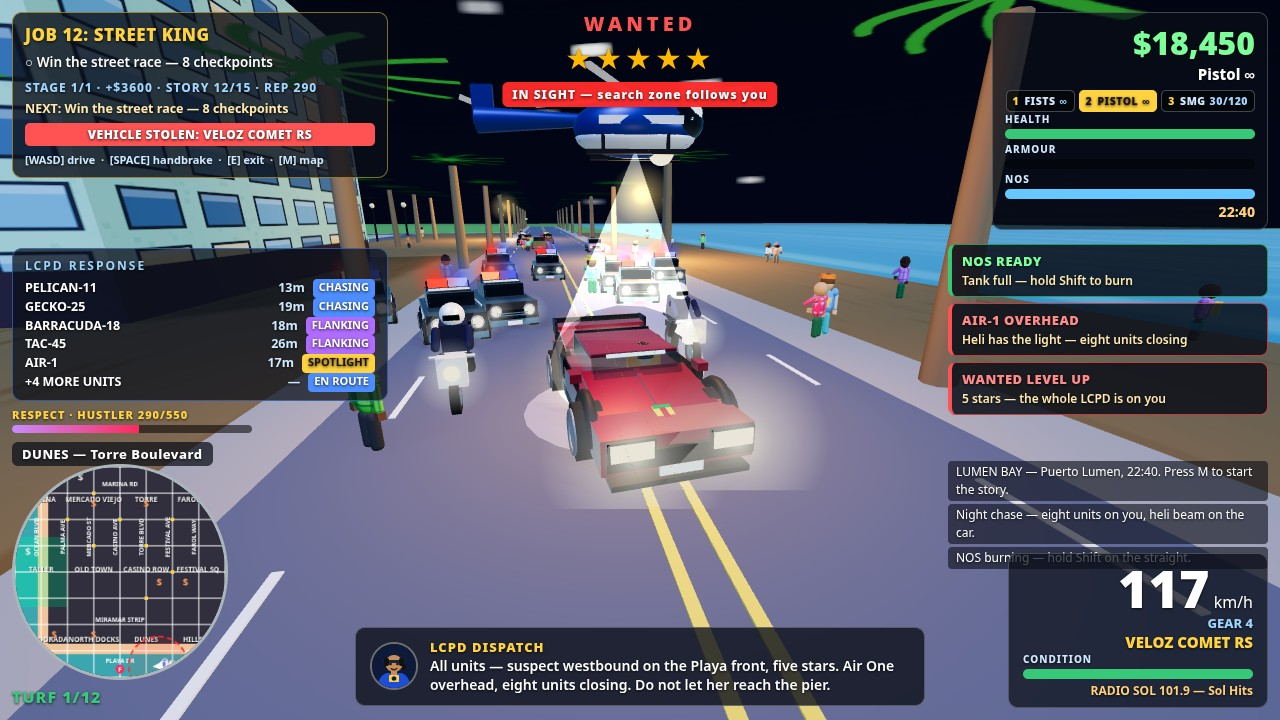
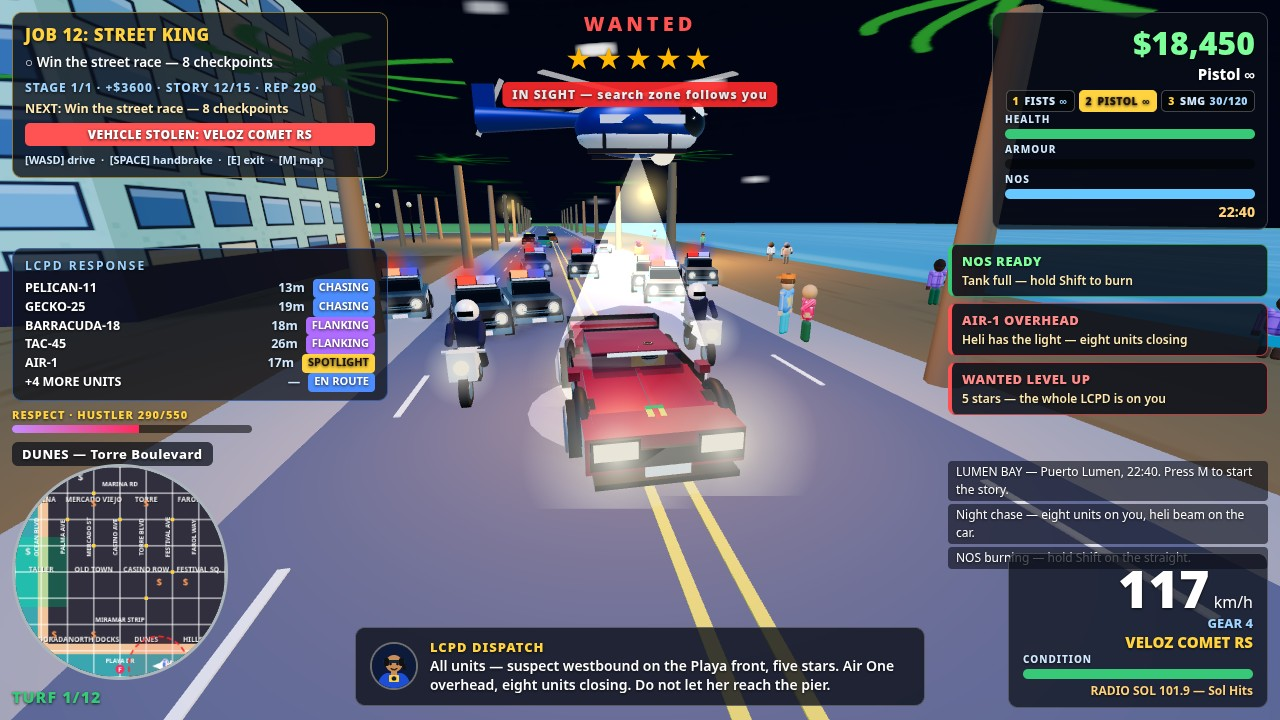
r12: shot 1 — remove 2 road pedestrians (Sand 15:44 WIT), keep right sidewalk

diff --git a/game/src/shots.js b/game/src/shots.js
@@ -104,6 +104,14 @@ export function stageShot1(G) {
   G.spawnTrafficNear(180, 215, 5); // traffic down the boulevard behind the hero, in frame
   G.clearTrafficNear(90, 215, 40); // NO stray car may overlap the hero
   G.clearPedsNear(90, 215, 15); // clear the hero's foreground
+  // RESTORED (take-2 finding): deleting this line did NOT remove the 2
+  // circled people — take 1 kept both, only recoloured. The ped spawns
+  // draw from one sequential rng, so deleting it shifted every later
+  // spawn and the right-sidewalk keepers scattered (takes 1–2: no
+  // readable keepers on the sidewalk). Restoring it puts the keepers
+  // back exactly where the v2 preview had them; the road-band +
+  // north-verge clears below remove the strays this group (and every
+  // group) lands on the road / left side.
   G.spawnPedsNear(140, 206, 8); // pedestrians on the north sidewalk behind the hero
   G.spawnPedsNear(170, 228, 5); // beachgoers on the sand behind the hero, south side
   // PEDESTRIANS ON THE RIGHT SIDEWALK (Sand 2026-11-21 ~11:24 WIT, spec
@@ -127,6 +135,31 @@ export function stageShot1(G) {
   // take 5 netted 2 clear sidewalk peds + 1 tiny far one, one short of
   // the 3–5 target.
   G.spawnPedsNear(104, 228, 2);
+  // ROAD BAND + NORTH VERGE CLEAR (Sand 2026-11-21 ~15:44 WIT ped
+  // cleanup): spawnPedsNear scatters ±20 m around its centre, so the
+  // sidewalk/sand spawns land ON the road and on the left side, and
+  // peds wander during the settle. Clear AFTER every spawn, along the
+  // whole visible road: r 9 centred on the centreline z 215 reaches
+  // z 206–224 and NEVER the right sidewalk (z 225+), so the 3 keepers
+  // survive; a second row at z 200 clears the north verge (z 191–209),
+  // where a stray green ped survived take 2. Centres 15 m apart so
+  // the 9 m circles overlap with no gap. No keeper is ever in either
+  // band (keepers spawn z 225–228, x 84–128).
+  G.clearPedsNear(92, 215, 9);
+  G.clearPedsNear(107, 215, 9);
+  G.clearPedsNear(122, 215, 9);
+  G.clearPedsNear(137, 215, 9);
+  G.clearPedsNear(152, 215, 9);
+  G.clearPedsNear(167, 215, 9);
+  G.clearPedsNear(182, 215, 9);
+  G.clearPedsNear(197, 215, 9);
+  G.clearPedsNear(212, 215, 9);
+  G.clearPedsNear(92, 200, 9);
+  G.clearPedsNear(107, 200, 9);
+  G.clearPedsNear(122, 200, 9);
+  G.clearPedsNear(137, 200, 9);
+  G.clearPedsNear(152, 200, 9);
+  G.clearPedsNear(167, 200, 9);
   // Warm bounce light over the hero so the pink-red paint + chrome glow
   // under the lamps. 60, not 100: at bright night the old 100 + the beam
   // pool washed the pink to pale white — the paint still glows at 60.
